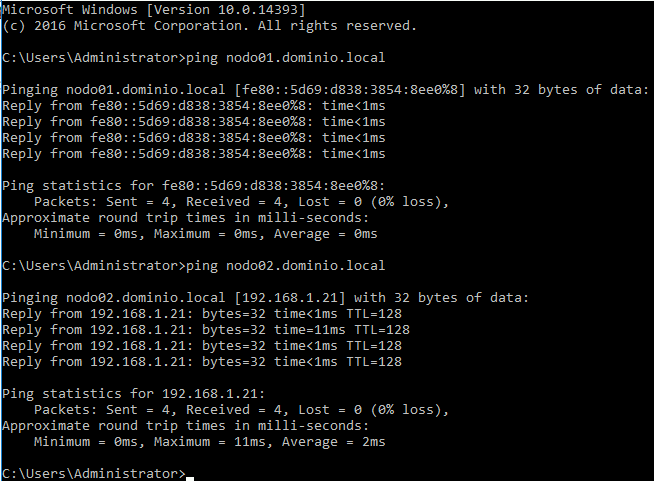
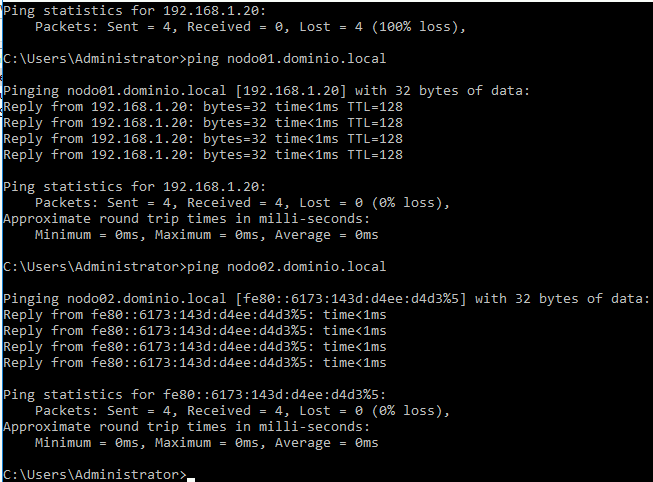
Hyper-V

diff --git a/guias/config.rst b/guias/config.rst
@@ -1,5 +1,183 @@
-Configurar el Hyper-V
+Configurar el Hyper-V para replicación
 ======================
+
+
+Utilizaremos la siguiente premisa para la configuración de la replicación.
+
+	nodo01.dominio.local - 192.168.1.20 - Primario donde estarán las VM
+
+	nodo02.dominio.local - 192.168.1.21 - Secundario el cual recibirá la replica de las VM
+
+
+Vamos a empezar en el **nodo02** abrimos el Hyper-V y lo vamos a configurar para que sea la Replica.
+
+
+.. figure:: ../images/config/01.png
+
+Como se vera, hay dos tipos de autenticación en Hyper-V: por Kerberos y por certificados HTTPS. Teniendo en cuenta que Kerberos está disponible solo en entornos de dominio, Como este laboratorio no esta en un dominio vamos por la opción de certificados.
+
+.. figure:: ../images/config/02.png
+
+Nos genera el siguiente error porque no tenemos certificado.
+
+.. figure:: ../images/config/03.png
+
+Vamos a proceder a crear los certificados y colocarlos en donde correspondan.
+
+En el **nodo01** vamos a ejecutar en powershell los siguiente comandos::
+
+	New-SelfSignedCertificate -DnsName “nodo01.dominio.local” -CertStoreLocation “cert:\LocalMachine\My” -TestRoot
+
+	New-SelfSignedCertificate -DnsName “nodo02.dominio.local” -CertStoreLocation “cert:\LocalMachine\My” -TestRoot
+
+
+.. figure:: ../images/config/04.png
+
+Verificamos en el **mmc** los certificados creados.
+
+.. figure:: ../images/config/05.png
+
+Verificamos en el **mmc** el certificados Trusted Root Test.
+
+.. figure:: ../images/config/06.png
+
+
+En el **mmc** vamos a leer los dos (2) certificados y el certificaro Root Test que los firmo.
+
+.. figure:: ../images/config/07.png
+
+.. figure:: ../images/config/08.png
+
+.. figure:: ../images/config/09.png
+
+.. figure:: ../images/config/10.png
+
+.. figure:: ../images/config/11.png
+
+
+Se han configurado los certificados para el servidor principal, nodo01.dominio.local. El siguiente paso es exportar el certificado del servidor nodo02.dominio.local junto con el certificado Root Test CertReq e importarlos a servidor nodo02.dominio.local
+
+
+.. figure:: ../images/config/12.png
+
+
+.. figure:: ../images/config/13.png
+
+
+.. figure:: ../images/config/14.png
+
+
+.. figure:: ../images/config/15.png
+
+
+.. figure:: ../images/config/16.png
+
+
+.. figure:: ../images/config/17.png
+
+
+.. figure:: ../images/config/18.png
+
+
+.. figure:: ../images/config/19.png
+
+
+.. figure:: ../images/config/20.png
+
+
+Exportamos el certificado Root Test CertReq
+
+.. figure:: ../images/config/21.png
+
+
+.. figure:: ../images/config/22.png
+
+
+.. figure:: ../images/config/23.png
+
+
+
+.. figure:: ../images/config/24.png
+
+
+.. figure:: ../images/config/25.png
+
+
+
+.. figure:: ../images/config/26.png
+
+
+
+.. figure:: ../images/config/27.png
+
+
+Ahora los copiamos al nodo02.dominio.local
+
+.. figure:: ../images/config/28.png
+
+
+Nos genera el siguiente error
+
+.. figure:: ../images/config/29.png
+
+En ambos servidores debemos habilitar el **Advanced Sharing Setting** del network
+
+.. figure:: ../images/config/30.png
+
+.. figure:: ../images/config/31.png
+
+Volvemos a probar
+
+
+.. figure:: ../images/config/27.png
+
+
+.. figure:: ../images/config/32.png
+
+
+Ya tenemos los certificados copiados en el nodo02.dominio.local ahora los vamos a importar con la ayuda del mmc
+
+.. figure:: ../images/config/33.png
+
+.. figure:: ../images/config/34.png
+
+.. figure:: ../images/config/35.png
+
+.. figure:: ../images/config/36.png
+
+.. figure:: ../images/config/37.png
+
+
+.. figure:: ../images/config/38.png
+
+.. figure:: ../images/config/39.png
+
+
+.. figure:: ../images/config/40.png
+
+Ahora importamos el Root Test 
+
+.. figure:: ../images/config/41.png
+
+.. figure:: ../images/config/42.png
+
+
+.. figure:: ../images/config/43.png
+
+
+.. figure:: ../images/config/44.png
+
+
+.. figure:: ../images/config/45.png
+
+
+.. figure:: ../images/config/46.png
+
+.. figure:: ../images/config/47.png
+
+
+
+
 
 
 

diff --git a/guias/install.rst b/guias/install.rst
@@ -30,7 +30,7 @@ Colocar Primary DNS Sufix
 Reiniciamos el Servidor
 
 
-Configurar el archivo hosts
+Configurar el archivo hosts en ambos servidores.
 
 .. figure:: ../images/install/06.png
 
